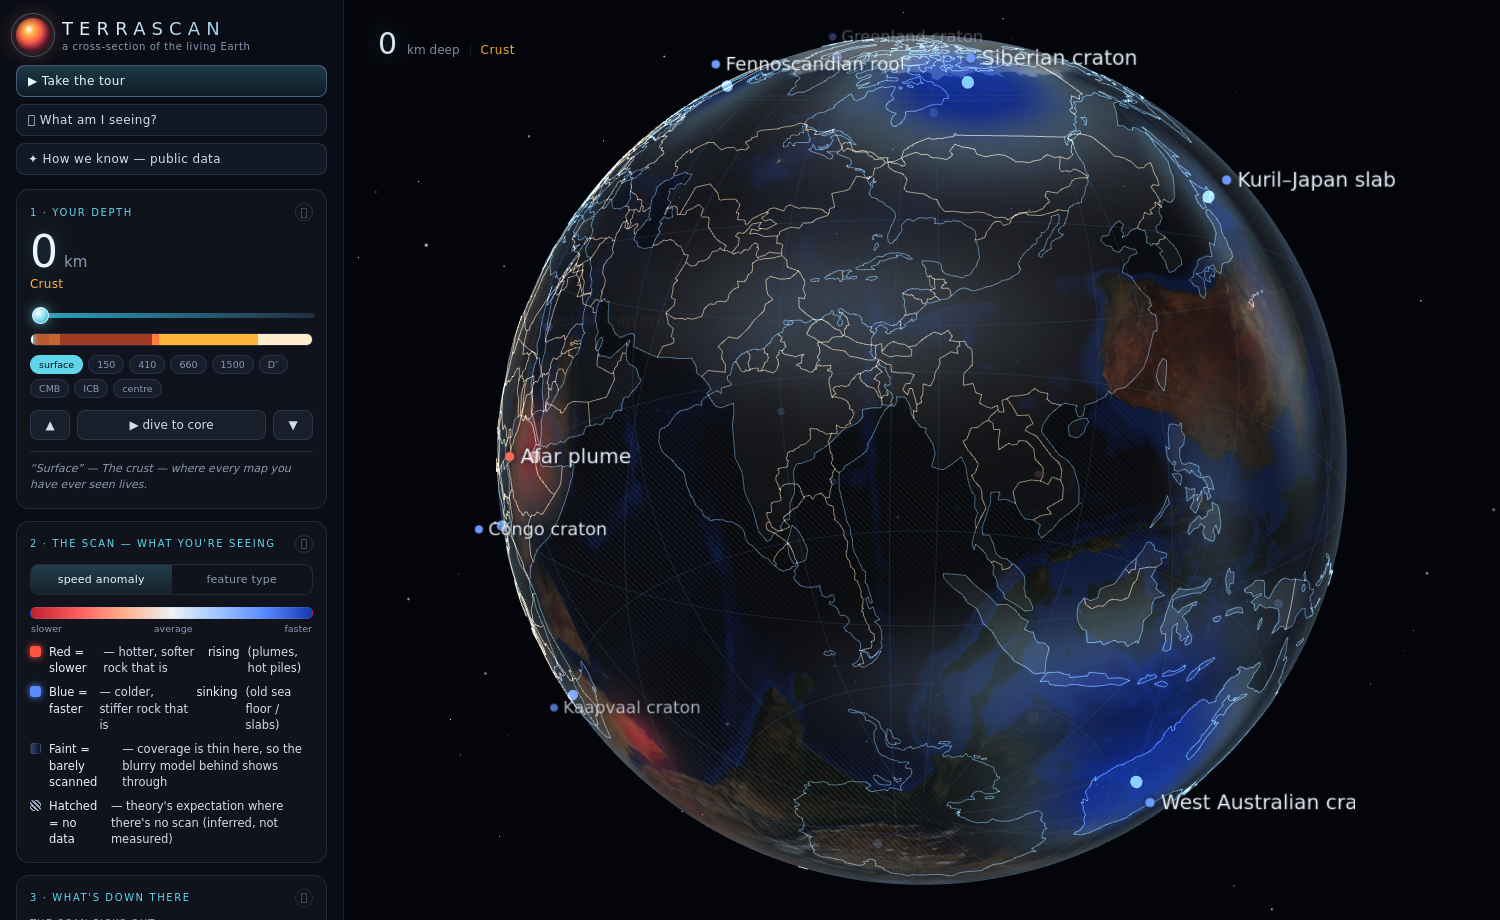
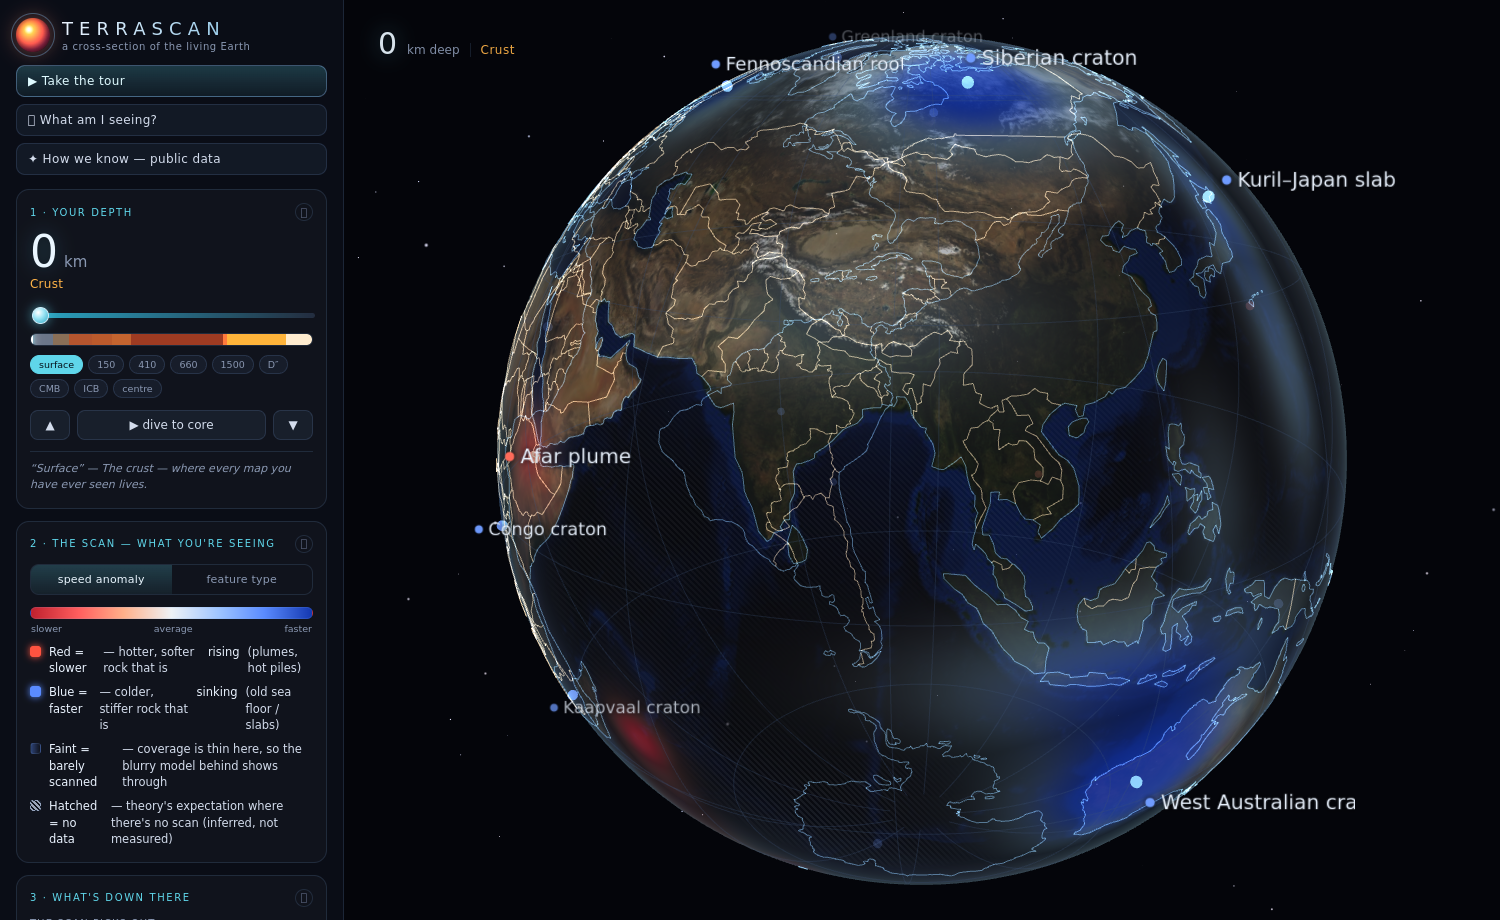
Fix relief N/S flip; non-linear shallow-expanded depth axis; honest temperature
- surface.js: flipY=false on the relief textures so the blue-marble & topography
  match the scan DataTexture (flipY=false) and the coastlines/borders. Verified
  alignment in both hemispheres (Hawai'i in the central Pacific, Nazca under the
  Andes, Afar on the Red Sea, etc.) — all layers share one lat/lon mapping.
- Non-linear depth axis (sliderToDepth/depthToSlider, exp 2.2): the top ~100 km
  now spans ~14% of the slider (was ~1.5%); the depth rail expands the shallow
  layers to match, so the crust/lithosphere/asthenosphere are explorable in detail.
- Temperature is shown honestly as a modelled estimate: '≈ K · °C · model estimate
  · ±N K · not measured', with a tooltip on how it's inferred and that it varies
  laterally. Uncertainty grows in the thermal boundary layers & core.

diff --git a/js/ui.js b/js/ui.js
@@ -1,6 +1,6 @@
 // ui.js — owns the left-rail DOM: depth controls, the scan legend, the readout
 // (with the colour↔baseline bridge), the guided intro, and the tour caption.
-import { GEO_LAYERS, EARTH_RADIUS, DEPTH_STOPS } from './earthModel.js';
+import { GEO_LAYERS, EARTH_RADIUS, DEPTH_STOPS, sliderToDepth, depthToSlider } from './earthModel.js';
 
 const $ = (s)=>document.querySelector(s);
 const ANOM = {fast:'#6f9bff', slow:'#ff6b5a'};
@@ -12,8 +12,8 @@ const JUMPS = [
 ];
 
 export function initControls(h){
-  const slider=$('#depth-slider');
-  slider.addEventListener('input', ()=>h.onDepth(+slider.value));
+  const slider=$('#depth-slider'); // 0..1000 on a non-linear axis (shallow expanded)
+  slider.addEventListener('input', ()=>h.onDepth(sliderToDepth(+slider.value/1000)));
 
   document.querySelectorAll('#colormode button').forEach(b=>
     b.addEventListener('click', ()=>h.onColorMode(b.dataset.mode)));
@@ -57,7 +57,7 @@ export function initControls(h){
   const rail=$('#depth-rail');
   const stops=GEO_LAYERS.map(L=>{
     const c='#'+L.color.toString(16).padStart(6,'0');
-    return `${c} ${(L.d0/EARTH_RADIUS*100).toFixed(1)}%, ${c} ${(L.d1/EARTH_RADIUS*100).toFixed(1)}%`;
+    return `${c} ${(depthToSlider(L.d0)*100).toFixed(1)}%, ${c} ${(depthToSlider(L.d1)*100).toFixed(1)}%`;
   }).join(', ');
   rail.innerHTML=`<div class="rail-fill" style="background:linear-gradient(90deg,${stops})"></div><div class="rail-cursor" id="rail-cursor"></div>`;
   const cursor=$('#rail-cursor');
@@ -74,8 +74,9 @@ export function initControls(h){
       const r=Math.round(d).toLocaleString();
       $('#depth-km').textContent=r; $('#sd-km').textContent=r;
       $('#depth-layer').textContent=layerName; $('#sd-layer').textContent=layerName;
-      if(+slider.value!==Math.round(d)) slider.value=Math.round(d);
-      cursor.style.left=(d/EARTH_RADIUS*100)+'%';
+      const sv=Math.round(depthToSlider(d)*1000);
+      if(+slider.value!==sv) slider.value=sv;
+      cursor.style.left=(depthToSlider(d)*100)+'%';
       ticks.querySelectorAll('.tick').forEach(t=>t.classList.toggle('on',Math.abs(+t.dataset.d-d)<70));
       const stop=DEPTH_STOPS.reduce((a,b)=>Math.abs(b.d-d)<Math.abs(a.d-d)?b:a);
       $('#depth-note').textContent='“'+stop.label+'” — '+stop.blurb;
@@ -85,6 +86,7 @@ export function initControls(h){
     readout(o){
       $('#ro-vs').textContent=o.vs; $('#ro-temp').textContent=o.temp;
       $('#ro-rho').textContent=o.rho; $('#ro-p').textContent=o.p;
+      if(o.tempNote) $('#temp-cap').textContent=o.tempNote;
       const p=Math.max(0,Math.min(100,o.covPct));
       $('#ro-cov').textContent=Math.round(p)+' %';
       $('#cov-fill').style.width=p+'%';

diff --git a/js/earthModel.js b/js/earthModel.js
@@ -122,3 +122,16 @@ export const DISCONTINUITIES = [
 export const depthToUnit  = (d)=> (EARTH_RADIUS - d)/EARTH_RADIUS;
 export const kmToUnit     = (km)=> km/EARTH_RADIUS;
 export const unitToDepth  = (u)=> EARTH_RADIUS*(1-u);
+
+// ---- non-linear depth axis: t in [0,1] -> depth, expanding the shallow zone ----
+// so the crust/lithosphere/asthenosphere get a usable share of the slider.
+const DEXP = 2.2;
+export const sliderToDepth = (t)=> EARTH_RADIUS*Math.pow(Math.max(0,Math.min(1,t)), DEXP);
+export const depthToSlider = (d)=> Math.pow(Math.max(0,Math.min(1,d/EARTH_RADIUS)), 1/DEXP);
+
+// rough temperature uncertainty (K) — temperature is modelled, never measured;
+// the error is largest in the thermal boundary layers (lithosphere, D″) and the core.
+export function tempUncertainty(d){
+  if(d<100) return 150; if(d<660) return 120; if(d<2400) return 150;
+  if(d<2891) return 400; if(d<5150) return 500; return 600;
+}

diff --git a/index.html b/index.html
@@ -50,7 +50,7 @@
       </div>
       <div class="depth-big"><span id="depth-km">0</span><span class="depth-unit">km</span></div>
       <div id="depth-layer" class="depth-layer">Surface · the crust</div>
-      <input id="depth-slider" class="slider" type="range" min="0" max="6371" value="0" step="1" />
+      <input id="depth-slider" class="slider" type="range" min="0" max="1000" value="0" step="1" />
       <div id="depth-rail" class="depth-rail"></div>
       <div id="depth-ticks" class="depth-ticks"></div>
       <div class="depth-controls">
@@ -105,7 +105,13 @@
       <ul id="feature-list" class="feature-list"><li class="muted">—</li></ul>
 
       <div class="sub model-sub">Conditions at this depth</div>
-      <div class="temp-big"><span id="ro-temp">—</span><span class="temp-cap">temperature down here</span></div>
+      <div class="temp-big">
+        <span id="ro-temp">—</span>
+        <span class="temp-meta">
+          <span class="temp-cap" id="temp-cap">temperature</span>
+          <span class="info" tabindex="0" data-tip="We never measure temperature at depth — it is inferred. A near-adiabatic geotherm through the convecting mantle, with steep thermal boundary layers at the top (lithosphere) and bottom (D″ / core), pinned by surface heat flow, the melting points of minerals at pressure, and the geodynamo. Uncertainty is large (±hundreds of K), worst in the boundary layers & core, and it varies laterally — hotter under ridges & plumes, colder under slabs & cratons.">ⓘ</span>
+        </span>
+      </div>
       <div class="readout3">
         <div class="ro"><span class="ro-v" id="ro-p">—</span><span class="ro-k">pressure</span></div>
         <div class="ro"><span class="ro-v" id="ro-rho">—</span><span class="ro-k">density</span></div>

diff --git a/js/surface.js b/js/surface.js
@@ -6,10 +6,13 @@ import * as THREE from 'three';
 
 export function makeReliefEarth(){
   const loader=new THREE.TextureLoader();
+  // flipY=false so v=0 is the NORTH row, matching the hand-built scan DataTexture
+  // (and therefore the coastlines/borders). Image textures default to flipY=true,
+  // which would mirror the relief north<->south against the outlines.
   const colorTex=loader.load('./assets/earth-blue-marble.jpg');
-  colorTex.colorSpace=THREE.SRGBColorSpace; colorTex.wrapS=THREE.RepeatWrapping;
+  colorTex.colorSpace=THREE.SRGBColorSpace; colorTex.wrapS=THREE.RepeatWrapping; colorTex.flipY=false;
   const topoTex=loader.load('./assets/earth-topology.png');
-  topoTex.colorSpace=THREE.NoColorSpace; topoTex.wrapS=THREE.RepeatWrapping;
+  topoTex.colorSpace=THREE.NoColorSpace; topoTex.wrapS=THREE.RepeatWrapping; topoTex.flipY=false;
 
   const geo=new THREE.SphereGeometry(1.0, 160, 100);
   const mat=new THREE.ShaderMaterial({

diff --git a/css/style.css b/css/style.css
@@ -142,7 +142,8 @@ canvas{display:block}
 .temp-big{display:flex;align-items:baseline;gap:10px;margin-bottom:9px;padding:10px 12px;border-radius:10px;
   background:linear-gradient(100deg,rgba(255,120,70,.16),rgba(255,160,90,.03));border:1px solid rgba(255,150,90,.30)}
 .temp-big #ro-temp{font-family:var(--mono);font-size:20px;color:#ffd9a8;text-shadow:0 0 16px rgba(255,140,80,.45)}
-.temp-cap{font-size:10px;color:var(--dim);letter-spacing:.04em}
+.temp-meta{display:flex;flex-direction:column;gap:1px}
+.temp-cap{font-size:10px;color:var(--dim);letter-spacing:.02em;font-style:italic}
 .readout3{display:grid;grid-template-columns:1fr 1fr 1fr;gap:8px}
 .readout3 .ro{padding:7px 9px}
 .readout3 .ro-v{font-size:14px}

diff --git a/js/main.js b/js/main.js
@@ -2,7 +2,7 @@
 import * as THREE from 'three';
 import { OrbitControls } from '../vendor/OrbitControls.js';
 import {
-  EARTH_RADIUS, premAt, geoLayerAt, depthToUnit,
+  EARTH_RADIUS, premAt, geoLayerAt, depthToUnit, tempUncertainty,
 } from './earthModel.js';
 import { makeScanField, activeFeatures, dominantFeatures } from './tomography.js';
 import { loadGeo, rasterizeLand, buildCoastlines, buildGraticule, latLonToVec3 } from './geo.js';
@@ -165,6 +165,7 @@ function setDepth(d){
   lastReadout={
     vs:(gl.state==='liquid'?'0 (liquid)':p.vs.toFixed(2)+' km/s'),
     temp:'≈ '+(Math.round(p.temp/10)*10).toLocaleString()+' K · '+(Math.round((p.temp-273.15)/10)*10).toLocaleString()+' °C',
+    tempNote:'model estimate · ±'+tempUncertainty(d)+' K · not measured',
     rho:p.rho.toFixed(2)+' g/cm³',
     p:(p.pressure>=10?p.pressure.toFixed(0):p.pressure.toFixed(1))+' GPa',
     covPct:scanField.coverageMean*100,